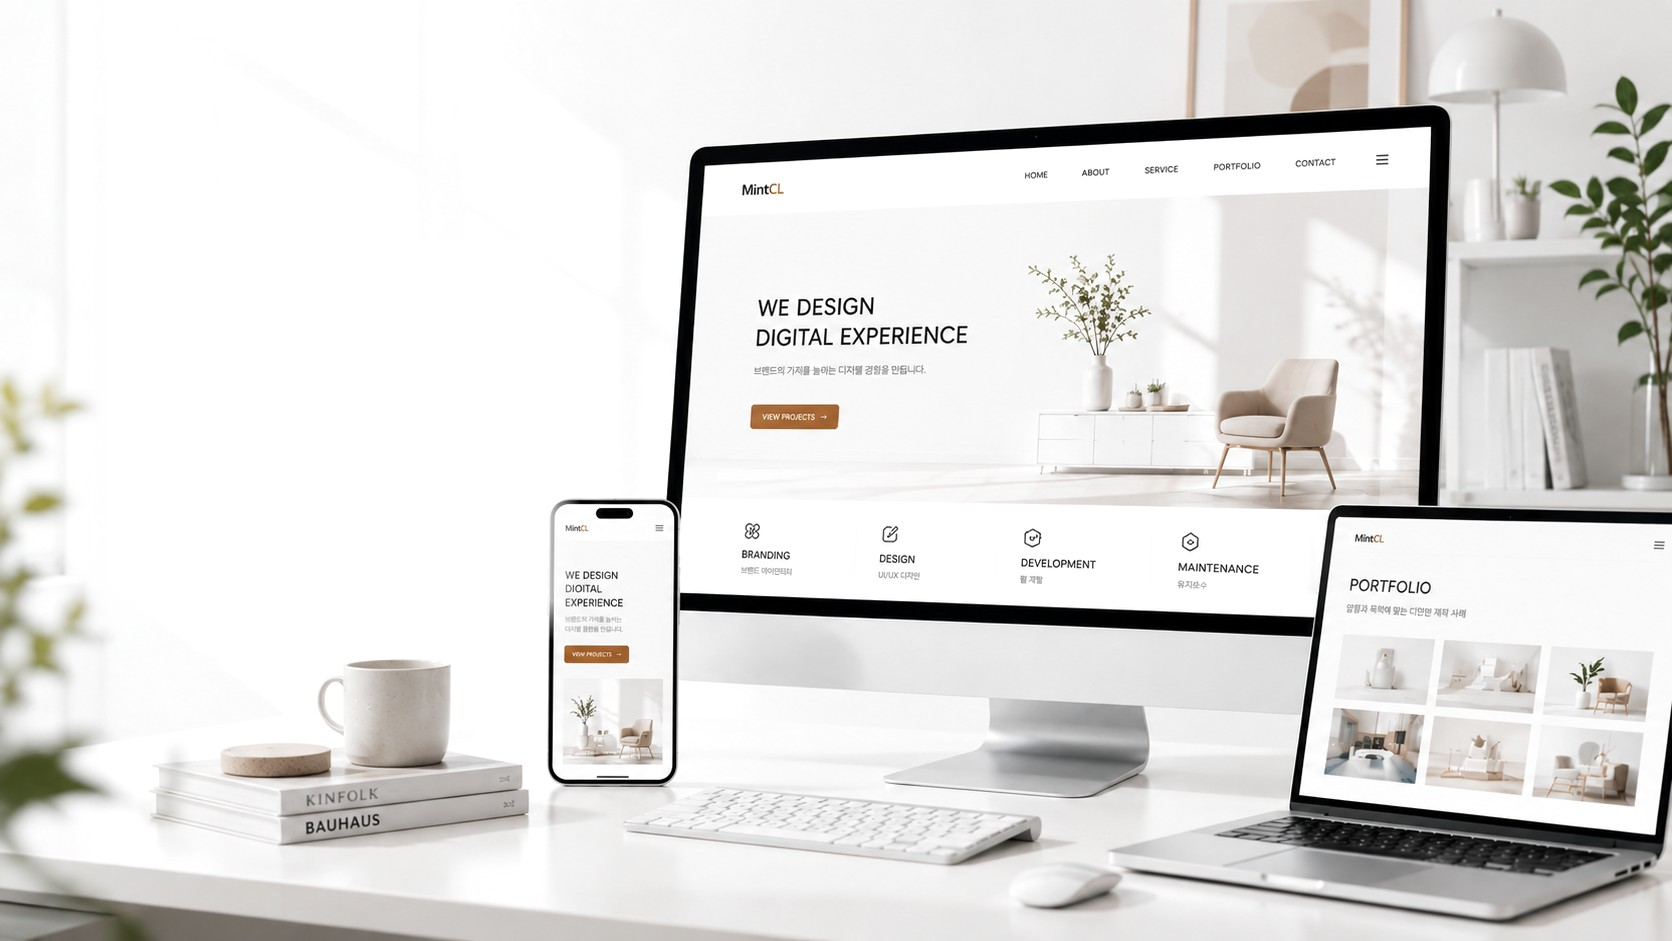
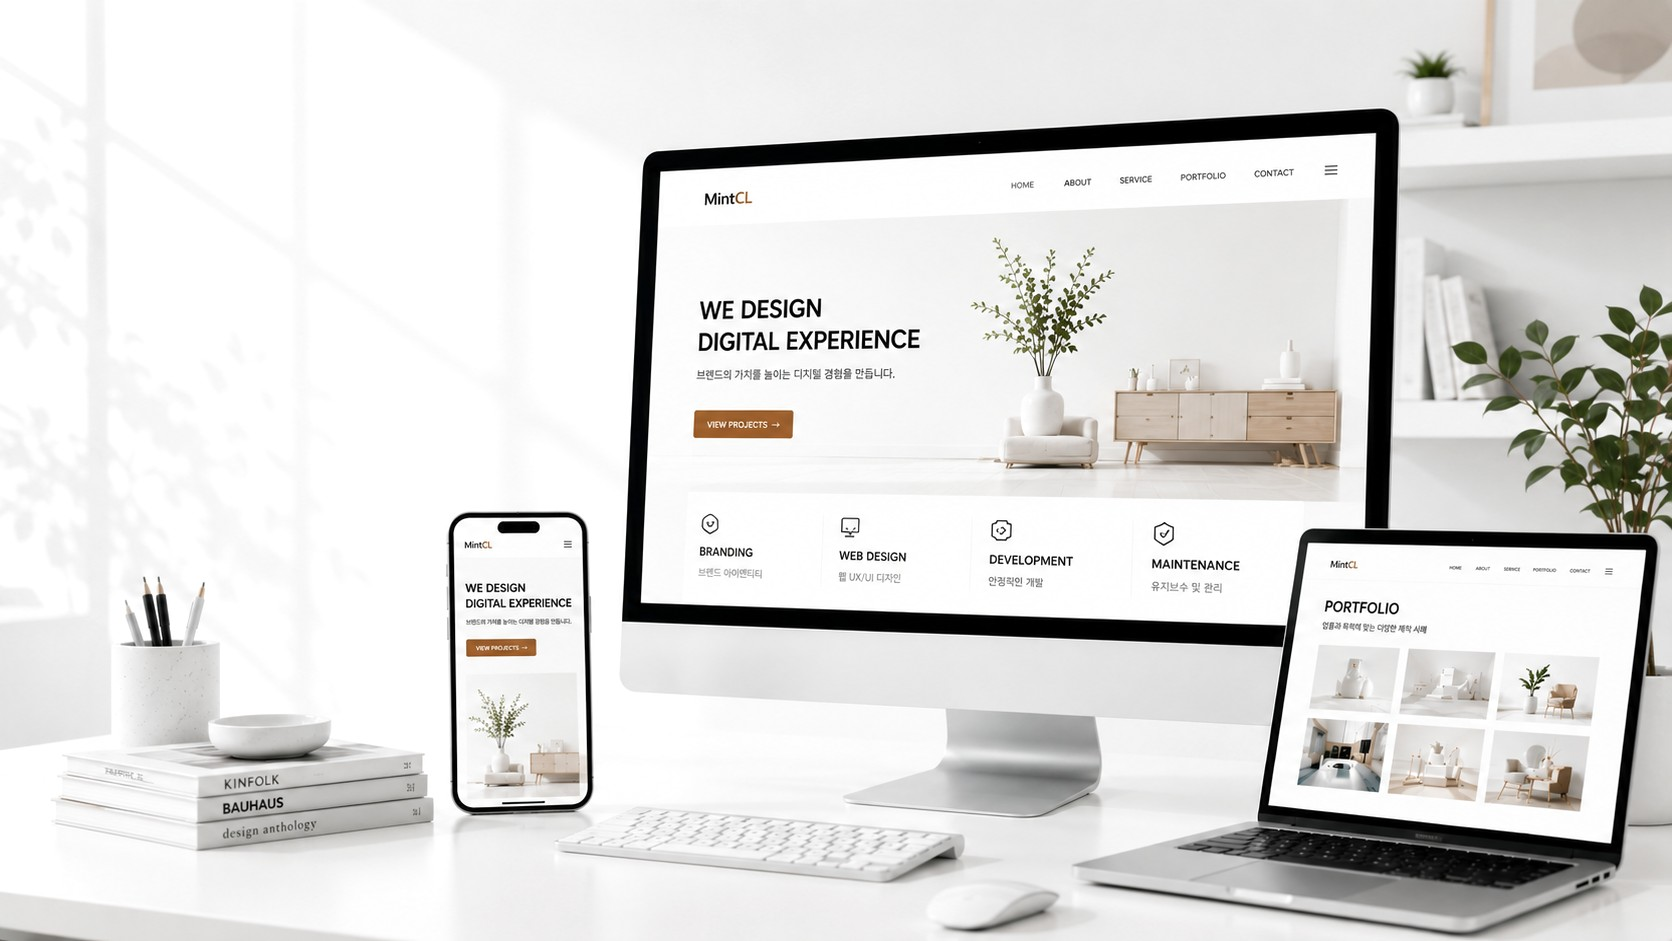
Replace hero photo with the clean final version, drop the patch-out hack
The new desktop photo (바탕화면 히어로 최종) has no baked-in headline/button
text, so the earlier localized white-patch treatment and the separate
mobile-only crop are no longer needed. Both desktop and mobile now share
one image, with the mobile band just biased toward the device cluster
via object-position.

diff --git a/src/components/sections/HeroSection.tsx b/src/components/sections/HeroSection.tsx
@@ -3,7 +3,9 @@ import { Button } from "@/components/ui/button";
 import { CoverImage } from "@/components/ui/CoverImage";
 import { FadeIn } from "@/components/ui/FadeIn";
 import heroBanner from "@/assets/images/hero_banner.jpg";
-import heroDevices from "@/assets/images/hero_devices.jpg";
+
+const HERO_ALT =
+  "MintCL이 제작한 반응형 웹사이트가 모니터, 노트북, 모바일 화면에 표시된 화이트톤 오피스";
 
 export function HeroSection() {
   return (
@@ -11,14 +13,14 @@ export function HeroSection() {
       {/* Desktop: full-bleed 16:9 banner fills the first screen */}
       <img
         src={heroBanner}
-        alt="MintCL이 제작한 반응형 웹사이트가 모니터, 노트북, 모바일 화면에 표시된 화이트톤 오피스"
+        alt={HERO_ALT}
         loading="eager"
         fetchPriority="high"
         className="absolute inset-0 hidden h-full w-full object-cover lg:block"
       />
 
-      <div className="relative mx-auto flex max-w-7xl flex-col lg:h-full">
-        <div className="max-w-md px-4 py-14 sm:px-6 lg:absolute lg:left-12 lg:top-[18%] lg:px-0 lg:py-0">
+      <div className="relative mx-auto flex max-w-7xl flex-col lg:h-full lg:justify-center">
+        <div className="max-w-md px-4 py-14 sm:px-6 lg:px-12 lg:py-0">
           <FadeIn>
             <p className="text-sm font-medium tracking-widest text-primary">MintCL</p>
             <h1 className="mt-5 text-balance text-4xl font-semibold leading-[1.15] tracking-tight text-foreground sm:text-5xl">
@@ -38,20 +40,13 @@ export function HeroSection() {
                 <Link to="/samples">포트폴리오 보기</Link>
               </Button>
             </div>
-            <p className="mt-4 inline-block rounded bg-background/90 px-2 py-1 text-xs text-muted-foreground lg:bg-background/70 lg:backdrop-blur-sm">
-              40만 원부터 · 5~10영업일 · 반응형 기본
-            </p>
+            <p className="mt-4 text-xs text-muted-foreground">40만 원부터 · 5~10영업일 · 반응형 기본</p>
           </FadeIn>
         </div>
 
-        {/* Mobile: text above a shorter device-photo band */}
+        {/* Mobile: text above a shorter device-photo band, biased right to feature the devices */}
         <div className="relative h-64 shrink-0 sm:h-96 lg:hidden">
-          <CoverImage
-            src={heroDevices}
-            alt="MintCL이 제작한 반응형 웹사이트가 모니터, 노트북, 모바일 화면에 표시된 화이트톤 오피스"
-            priority
-            className="object-[center_30%]"
-          />
+          <CoverImage src={heroBanner} alt={HERO_ALT} priority className="object-[80%_center]" />
         </div>
       </div>
     </section>
